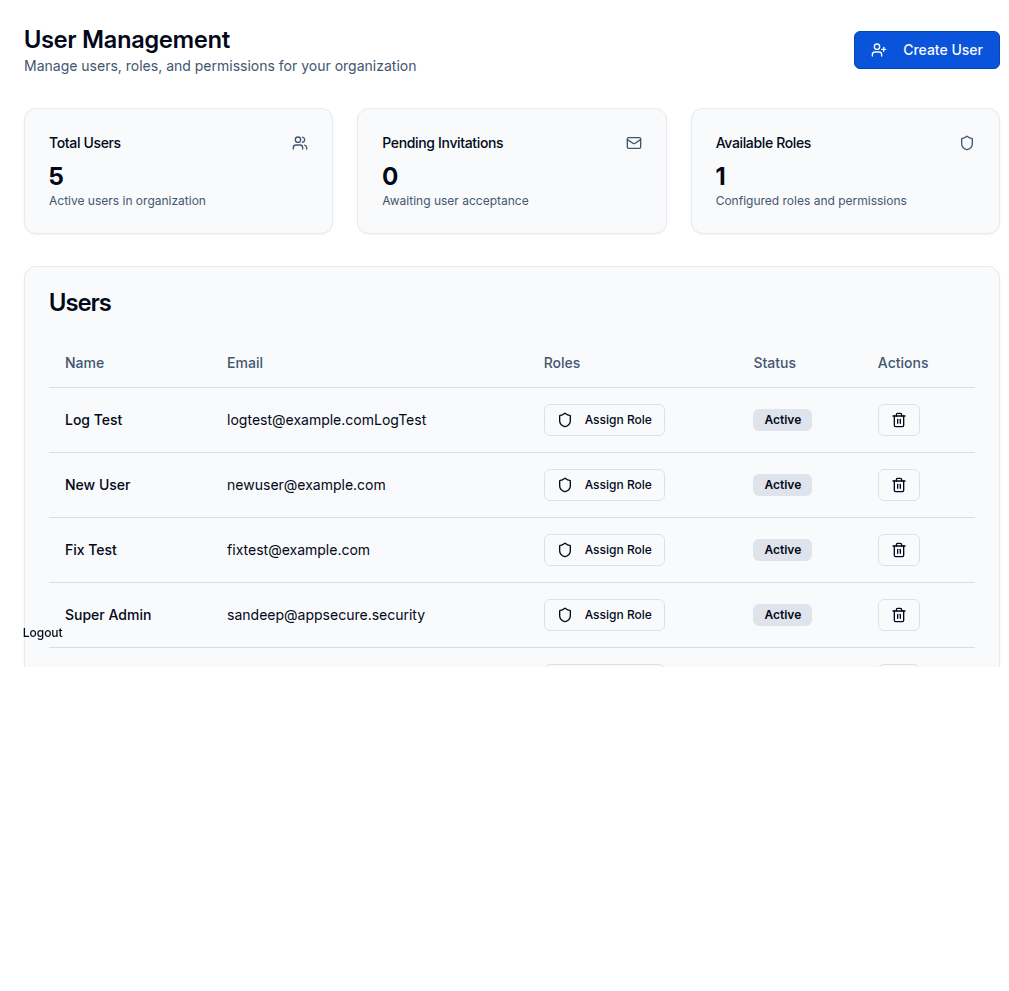
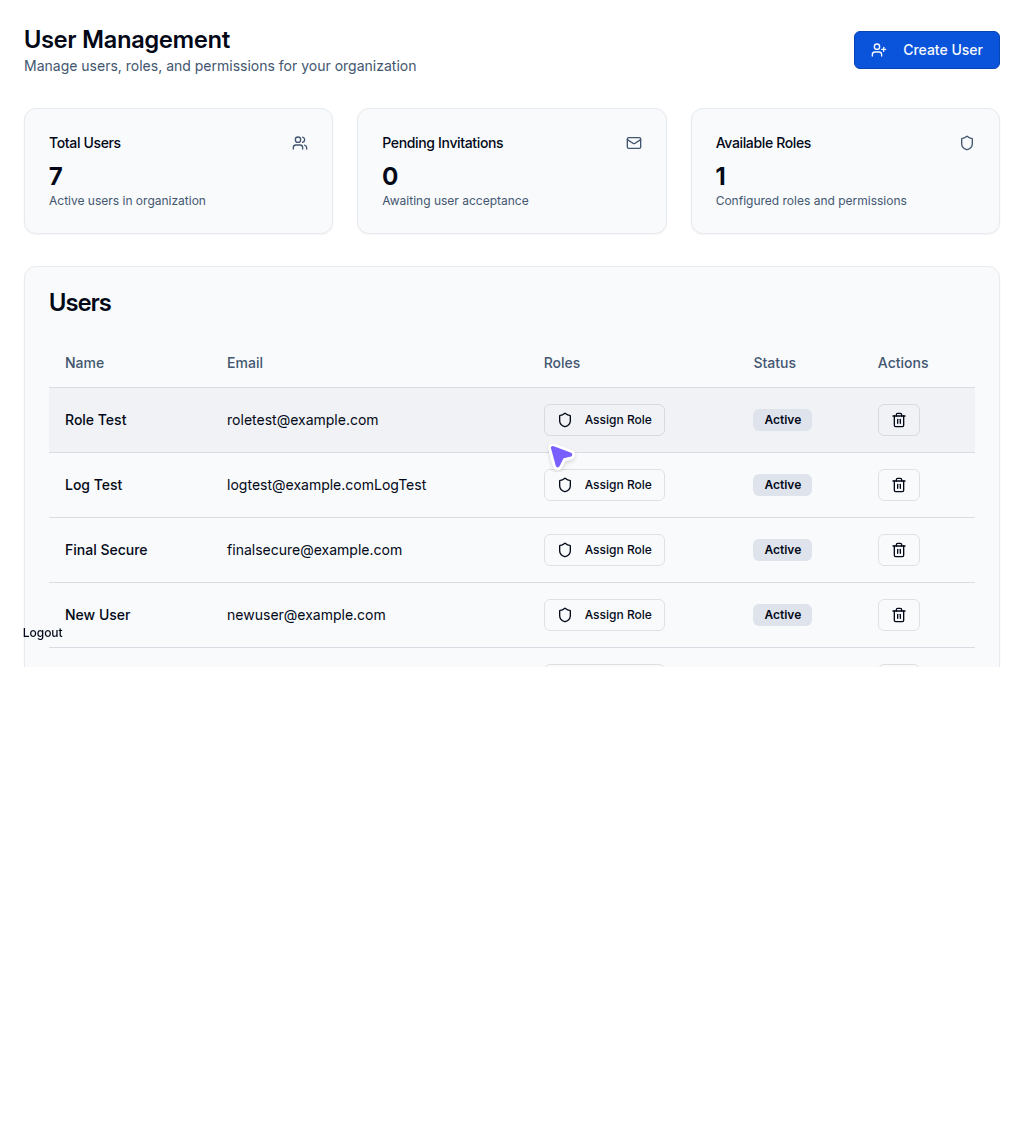
Allow creating users with any available role, not just predefined ones
Update user creation endpoint to accept a role ID and assign the specified role, also update client-side to fetch and display available roles from the API.

Replit-Commit-Author: Agent
Replit-Commit-Session-Id: 3b8f4193-7ade-45e4-bd4e-73ffb146759e
Replit-Commit-Checkpoint-Type: full_checkpoint
Replit-Commit-Screenshot-Url: https://storage.googleapis.com/screenshot-production-us-central1/934b085b-7aae-4724-82fe-fbe6477b1f1f/3b8f4193-7ade-45e4-bd4e-73ffb146759e/LJToyTD

diff --git a/server/routes.ts b/server/routes.ts
@@ -3,6 +3,7 @@ import { createServer, type Server } from "http";
 import { storage } from "./storage";
 import { setupAuth, isAuthenticated, hasPermission, isSuperAdmin, hashPassword } from "./auth";
 import crypto from "crypto";
+import { z } from "zod";
 import { 
   insertFindingSchema,
   insertProjectSchema,
@@ -816,15 +817,15 @@ export async function registerRoutes(app: Express): Promise<Server> {
         return res.status(400).json({ message: "User must belong to an organization" });
       }
 
-      // Validate input using Zod schema
-      const createUserSchema = insertUserSchema.pick({
-        email: true,
-        firstName: true,
-        lastName: true,
-        role: true,
+      // Validate input using Zod schema for user creation with custom role
+      const createUserWithRoleSchema = z.object({
+        email: z.string().email(),
+        firstName: z.string().min(1),
+        lastName: z.string().min(1),
+        role: z.string().min(1), // This will be a role ID
       });
 
-      const validationResult = createUserSchema.safeParse(req.body);
+      const validationResult = createUserWithRoleSchema.safeParse(req.body);
       if (!validationResult.success) {
         return res.status(400).json({ 
           message: "Invalid input data",
@@ -832,12 +833,18 @@ export async function registerRoutes(app: Express): Promise<Server> {
         });
       }
 
-      const { email, firstName, lastName, role } = validationResult.data;
+      const { email, firstName, lastName, role: roleId } = validationResult.data;
 
       // Check if user already exists
       const existingUser = await storage.getUserByEmail(email);
       if (existingUser) {
         return res.status(409).json({ message: "User with this email already exists" });
+      }
+
+      // Verify the role exists and belongs to the organization
+      const role = await storage.getRole(roleId);
+      if (!role || role.organizationId !== currentUser.organizationId) {
+        return res.status(400).json({ message: "Invalid role or role not found in organization" });
       }
 
       // Generate cryptographically secure random 16-character password
@@ -855,19 +862,26 @@ export async function registerRoutes(app: Express): Promise<Server> {
       const plainPassword = await generatePassword();
       const passwordHash = await hashPassword(plainPassword);
 
-      // Create user data
+      // Create user data with default base role
       const userData = {
         email,
         firstName,
         lastName,
         passwordHash,
         organizationId: currentUser.organizationId,
-        role: role as any,
+        role: 'researcher' as any, // Default base role
         isActive: true,
       };
 
       // Create the user directly
       const newUser = await storage.upsertUser(userData);
+
+      // Assign the custom role to the user
+      await storage.assignUserRole({
+        userId: newUser.id,
+        roleId: roleId,
+        assignedBy: currentUserId,
+      });
 
       // Remove password hash from response and include plain password
       const { passwordHash: _, ...userResponse } = newUser;

diff --git a/client/src/pages/UserManagement.tsx b/client/src/pages/UserManagement.tsx
@@ -113,6 +113,7 @@ export default function UserManagement() {
       }
       queryClient.invalidateQueries({ queryKey: ['/api/users'] });
       queryClient.invalidateQueries({ queryKey: ['/api/invitations'] });
+      queryClient.invalidateQueries({ queryKey: ['/api/user-roles'] });
       setIsCreateUserDialogOpen(false);
       form.reset();
     },
@@ -302,10 +303,11 @@ export default function UserManagement() {
                           </SelectTrigger>
                         </FormControl>
                         <SelectContent>
-                          <SelectItem value="researcher">Researcher</SelectItem>
-                          <SelectItem value="project_user">Project User</SelectItem>
-                          <SelectItem value="customer_admin">Customer Admin</SelectItem>
-                          <SelectItem value="org_admin">Organization Admin</SelectItem>
+                          {roles.map((role) => (
+                            <SelectItem key={role.id} value={role.id}>
+                              {role.name} - {role.description}
+                            </SelectItem>
+                          ))}
                         </SelectContent>
                       </Select>
                       <FormMessage />
